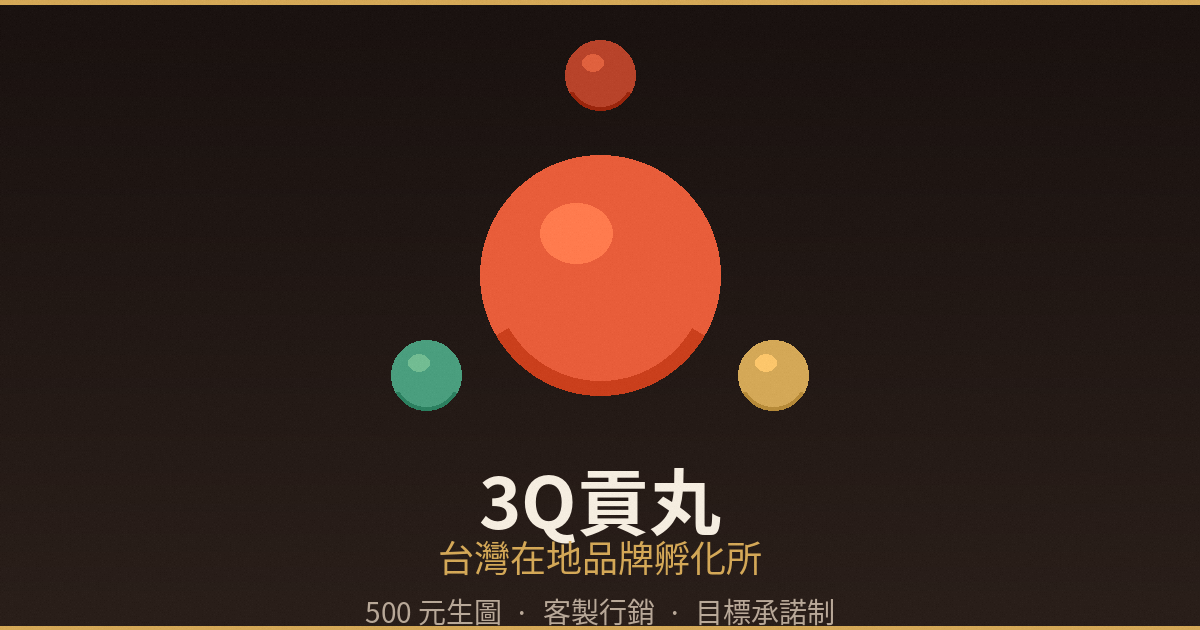
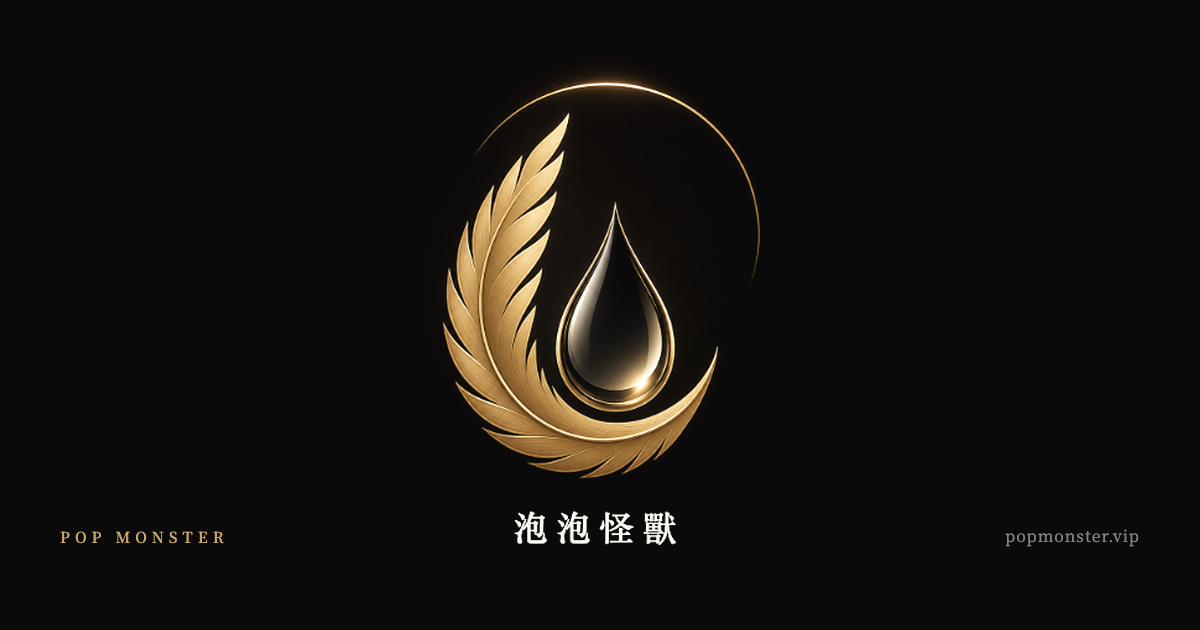
首頁分享預覽圖換成泡泡怪獸商標（原本是 3Q貢丸 的圖）
- 新圖 img/og/og-logo-1200x630.jpg：金羽毛水滴商標置中，底色 #0a0a0a
- 首頁、404、隱私、條款、AI 百科、錯誤回報、免費指南 7 頁的 og:image 指到新圖（首頁的 twitter:image
  先留舊網址，避開跟 #77 的相鄰改動衝突；舊網址的內容已經是同一張商標圖）
- 舊網址 og-image-1200x630.png 也換成同一張，外部快取和首頁結構化資料的 logo 不會再抓到 3Q貢丸
- 渲染正本與規格在 assets/og-logo/（PROMPT.md、src/render.py）

diff --git a/assets/og-logo/src/render.html b/assets/og-logo/src/render.html
@@ -1,0 +1,58 @@
+<!DOCTYPE html>
+<html lang="zh-Hant-TW">
+<head>
+<meta charset="utf-8">
+<title>渲染正本：首頁分享預覽圖（商標版）1200×630</title>
+<link rel="preconnect" href="https://fonts.googleapis.com">
+<link href="https://fonts.googleapis.com/css2?family=Noto+Serif+TC:wght@400;600&display=block" rel="stylesheet">
+<style>
+  /* 渲染專用：固定像素、零動畫。規格見 ../PROMPT.md */
+  * { margin: 0; padding: 0; box-sizing: border-box; }
+  body { background: #0a0a0a; }
+  #capture {
+    position: relative;
+    width: 1200px;
+    height: 630px;
+    overflow: hidden;
+    background: #0a0a0a;               /* 品牌手冊 PURE BLACK */
+    isolation: isolate;
+  }
+  /* 商標原圖是純黑底：screen 疊上去，黑色直接變成底色，四周不會有方框 */
+  .mark {
+    position: absolute;
+    left: 291px;                        /* 本體中心 x=309 → 畫面中心 600 */
+    top: -29px;                         /* 本體中心 y=338 → 309（中心往上 6px，光學置中） */
+    width: 616px;
+    height: 616px;
+    mix-blend-mode: screen;
+  }
+  .sig {
+    position: absolute;
+    bottom: 86px;                       /* 字底對齊「泡泡怪獸」四字底線（y=544） */
+    font-family: "Noto Serif TC", "Songti TC", serif;
+    line-height: 1;
+  }
+  .sig-brand {
+    left: 60px;
+    font-size: 15px;
+    font-weight: 600;
+    letter-spacing: .34em;
+    color: #c8a96b;                     /* CHAMPAGNE 核心識別金 */
+  }
+  .sig-url {
+    right: 60px;
+    font-size: 16px;
+    font-weight: 400;
+    letter-spacing: .06em;
+    color: rgba(232, 226, 214, .56);    /* IVORY WHITE 降一階 */
+  }
+</style>
+</head>
+<body>
+<div id="capture">
+  <img class="mark" src="logo-mark-616.png" alt="">
+  <div class="sig sig-brand">POP MONSTER</div>
+  <div class="sig sig-url">popmonster.vip</div>
+</div>
+</body>
+</html>

diff --git a/index.html b/index.html
@@ -12,9 +12,9 @@
 <meta property="og:title" content="泡泡怪獸 POP MONSTER｜先選施工任務，再選產品">
 <meta property="og:description" content="用清潔、研磨、鍍膜、耗材與養護五條路徑，快速找到適合的汽美產品。">
 <meta property="og:url" content="https://popmonster.vip/">
-<meta property="og:image" content="https://popmonster.vip/og-image-1200x630.png">
-<meta property="og:image:type" content="image/png">
-<meta property="og:image:alt" content="泡泡怪獸 POP MONSTER 汽車美容選品">
+<meta property="og:image" content="https://popmonster.vip/img/og/og-logo-1200x630.jpg">
+<meta property="og:image:type" content="image/jpeg">
+<meta property="og:image:alt" content="泡泡怪獸 POP MONSTER 商標">
 <meta property="og:image:width" content="1200">
 <meta property="og:image:height" content="630">
 <meta name="twitter:card" content="summary_large_image">

diff --git a/error-report.html b/error-report.html
@@ -14,10 +14,10 @@
 <meta property="og:title" content="錯誤回報｜泡泡怪獸 POP MONSTER">
 <meta property="og:description" content="如果您發現網站內容、產品資訊、施工教學有任何錯誤或可改進之處，歡迎透過 LINE 與我們聯絡。">
 <meta property="og:url" content="https://popmonster.vip/error-report.html">
-<meta property="og:image" content="https://popmonster.vip/og-image-1200x630.png">
+<meta property="og:image" content="https://popmonster.vip/img/og/og-logo-1200x630.jpg">
 <meta property="og:image:width" content="1200">
 <meta property="og:image:height" content="630">
-<meta property="og:image:type" content="image/png">
+<meta property="og:image:type" content="image/jpeg">
 <!-- GA4 -->
 <script async src="https://www.googletagmanager.com/gtag/js?id=G-WTKLHW33D7"></script>
 <script>

diff --git a/free-guide.html b/free-guide.html
@@ -13,10 +13,10 @@
 <meta property="og:title" content="免費攻略｜泡泡怪獸 POP MONSTER">
 <meta property="og:description" content="五篇已經寫好、可以直接看的汽美攻略：千倍稀釋、洗車八步、番數對照、RO 入門、拋光盤選擇。">
 <meta property="og:url" content="https://popmonster.vip/free-guide.html">
-<meta property="og:image" content="https://popmonster.vip/og-image-1200x630.png">
+<meta property="og:image" content="https://popmonster.vip/img/og/og-logo-1200x630.jpg">
 <meta property="og:image:width" content="1200">
 <meta property="og:image:height" content="630">
-<meta property="og:image:type" content="image/png">
+<meta property="og:image:type" content="image/jpeg">
 <!-- GA4 -->
 <script async src="https://www.googletagmanager.com/gtag/js?id=G-WTKLHW33D7"></script>
 <script>

diff --git a/ai-encyclopedia.html b/ai-encyclopedia.html
@@ -13,10 +13,10 @@
 <meta property="og:title" content="AI 汽美百科｜泡泡怪獸 POP MONSTER">
 <meta property="og:description" content="結合 Gemini AI 的汽美知識問答系統，可上傳車漆照片做 AI 評估，或直接詢問產品搭配建議。">
 <meta property="og:url" content="https://popmonster.vip/ai-encyclopedia.html">
-<meta property="og:image" content="https://popmonster.vip/og-image-1200x630.png">
+<meta property="og:image" content="https://popmonster.vip/img/og/og-logo-1200x630.jpg">
 <meta property="og:image:width" content="1200">
 <meta property="og:image:height" content="630">
-<meta property="og:image:type" content="image/png">
+<meta property="og:image:type" content="image/jpeg">
 <!-- GA4 -->
 <script async src="https://www.googletagmanager.com/gtag/js?id=G-WTKLHW33D7"></script>
 <script>

diff --git a/404.html b/404.html
@@ -21,10 +21,10 @@
 <link rel="icon" type="image/svg+xml" href="/favicon.svg">
 <link rel="apple-touch-icon" href="/favicon.svg">
 <link rel="manifest" href="/manifest.json">
-<meta property="og:image" content="https://popmonster.vip/og-image-1200x630.png">
+<meta property="og:image" content="https://popmonster.vip/img/og/og-logo-1200x630.jpg">
 <meta property="og:image:width" content="1200">
 <meta property="og:image:height" content="630">
-<meta name="twitter:image" content="https://popmonster.vip/og-image-1200x630.png">
+<meta name="twitter:image" content="https://popmonster.vip/img/og/og-logo-1200x630.jpg">
 <!-- Google tag (gtag.js) - GA4 with Consent Mode v2 -->
 <script async src="https://www.googletagmanager.com/gtag/js?id=G-WTKLHW33D7"></script>
 <script>

diff --git a/privacy.html b/privacy.html
@@ -11,10 +11,10 @@
 <link rel="icon" type="image/svg+xml" href="/favicon.svg">
 <link rel="apple-touch-icon" href="/favicon.svg">
 <link rel="manifest" href="/manifest.json">
-<meta property="og:image" content="https://popmonster.vip/og-image-1200x630.png">
+<meta property="og:image" content="https://popmonster.vip/img/og/og-logo-1200x630.jpg">
 <meta property="og:image:width" content="1200">
 <meta property="og:image:height" content="630">
-<meta name="twitter:image" content="https://popmonster.vip/og-image-1200x630.png">
+<meta name="twitter:image" content="https://popmonster.vip/img/og/og-logo-1200x630.jpg">
 <!-- Google tag (gtag.js) - GA4 with Consent Mode v2 -->
 <script async src="https://www.googletagmanager.com/gtag/js?id=G-WTKLHW33D7"></script>
 <script>

diff --git a/terms.html b/terms.html
@@ -11,10 +11,10 @@
 <link rel="icon" type="image/svg+xml" href="/favicon.svg">
 <link rel="apple-touch-icon" href="/favicon.svg">
 <link rel="manifest" href="/manifest.json">
-<meta property="og:image" content="https://popmonster.vip/og-image-1200x630.png">
+<meta property="og:image" content="https://popmonster.vip/img/og/og-logo-1200x630.jpg">
 <meta property="og:image:width" content="1200">
 <meta property="og:image:height" content="630">
-<meta name="twitter:image" content="https://popmonster.vip/og-image-1200x630.png">
+<meta name="twitter:image" content="https://popmonster.vip/img/og/og-logo-1200x630.jpg">
 <!-- Google tag (gtag.js) - GA4 with Consent Mode v2 -->
 <script async src="https://www.googletagmanager.com/gtag/js?id=G-WTKLHW33D7"></script>
 <script>

diff --git a/assets/og-logo/src/render.py b/assets/og-logo/src/render.py
@@ -1,0 +1,41 @@
+#!/usr/bin/env python3
+"""首頁分享預覽圖（商標版）渲染。
+用法：python3 render.py（在本目錄執行）
+輸出：img/og/og-logo-1200x630.jpg（正本）＋ 根目錄 og-image-1200x630.png（舊網址改放同一張）"""
+import io
+import pathlib
+from PIL import Image, ImageFilter
+from playwright.sync_api import sync_playwright
+
+SRC = pathlib.Path(__file__).resolve().parent
+ROOT = SRC.parents[2]
+
+# 1) 商標底圖：500px 原檔去掉 1px 金褐邊框 → 放大到本體約 470px 高（1.237 倍）→ 輕微銳化補回放大的軟
+src = Image.open(SRC / "logo-avatar-500-source.png").convert("RGB")
+size = round(498 * 470 / 380)
+mark = src.crop((1, 1, 499, 499)).resize((size, size), Image.LANCZOS)
+mark = mark.filter(ImageFilter.UnsharpMask(radius=1.2, percent=35, threshold=2))
+mark.save(SRC / f"logo-mark-{size}.png")
+
+# 2) 排版：render.html（商標 screen 疊在 #0a0a0a 上＋左右下角小字）
+
+with sync_playwright() as p:
+    browser = p.chromium.launch()
+    ctx = browser.new_context(viewport={"width": 1200, "height": 630}, device_scale_factor=1)
+    page = ctx.new_page()
+    page.goto((SRC / "render.html").as_uri())
+    page.evaluate("document.fonts.ready.then(() => {})")
+    page.wait_for_function("document.fonts.status === 'loaded'", timeout=30000)
+    page.wait_for_timeout(800)
+    png = page.locator("#capture").screenshot()
+    browser.close()
+
+im = Image.open(io.BytesIO(png)).convert("RGB")
+assert im.size == (1200, 630), im.size
+jpg = ROOT / "img" / "og" / "og-logo-1200x630.jpg"
+jpg.parent.mkdir(parents=True, exist_ok=True)
+im.save(jpg, "JPEG", quality=92, optimize=True, progressive=True, subsampling=0)
+legacy = ROOT / "og-image-1200x630.png"
+im.save(legacy, "PNG", optimize=True)
+for f in (jpg, legacy):
+    print(f"{f.relative_to(ROOT)}  {f.stat().st_size / 1024:.0f} KB")

diff --git a/tests/test_home_extreme.py b/tests/test_home_extreme.py
@@ -24,7 +24,9 @@ class HomepageExtremeContract(unittest.TestCase):
 
     def test_semantic_entry_and_social_metadata(self):
         self.assertIn('<link rel="canonical" href="https://popmonster.vip/">', self.html)
-        self.assertIn('og-image-1200x630.png', self.html)
+        # 舊的 og-image-1200x630.png 是別的品牌（3Q貢丸）的圖；首頁預覽改用泡泡怪獸商標
+        self.assertIn('property="og:image" content="https://popmonster.vip/img/og/og-logo-1200x630.jpg"', self.html)
+        self.assertTrue((ROOT / 'img' / 'og' / 'og-logo-1200x630.jpg').is_file())
         self.assertRegex(self.html, r'<a[^>]+class="skip-link"[^>]+href="#main-content"')
         self.assertRegex(self.html, r'<main[^>]+id="main-content"')
         self.assertIn('aria-current="page"', self.html)

diff --git a/assets/og-logo/PROMPT.md b/assets/og-logo/PROMPT.md
@@ -1,0 +1,46 @@
+# 首頁分享預覽圖：泡泡怪獸商標版（2026-09-28）
+
+## 用途
+popmonster.vip 首頁（以及 404、隱私、條款、AI 百科、錯誤回報、免費指南六頁）的
+`og:image`／`twitter:image`。在 FB、LINE、Threads、iMessage 貼網址時跳出來的那張圖。
+
+換掉的是 `og-image-1200x630.png`：那張是別的品牌「3Q貢丸」的圖，不是泡泡怪獸。
+
+## 用哪一版商標
+金羽毛＋水滴＋金環＋「泡泡怪獸」四字那版（蝦皮天使塗層 Guard 賣場頭貼、38 個 FB 粉專頭貼同一張）。
+來源：Drive `02-泡泡怪獸與POP/天使塗層 Guard｜蝦皮賣場素材｜2026-07-18/01-avatar-500x500.png`，
+留底在 `src/logo-avatar-500-source.png`。
+
+不用彩色圓形「POP MONSTER 泡泡怪兽 From China」那版：2026-08-12 已經把 FB 粉專上的那版全部換掉，
+理由是台灣車主看到 From China 會直接跳走。
+
+## 觀看尺寸
+- 100%：1200×630
+- FB 手機動態：約 500px 寬
+- LINE 聊天泡泡：約 240px 寬（商標要一眼認得出來，四個字看不清可以接受，標題文字會另外顯示在圖下）
+
+## 構圖
+- 底色 `#0a0a0a`（品牌手冊 PURE BLACK，不是 `#000`）
+- 商標整顆置中，本體（羽毛＋水滴＋金環＋四字）約 470px 高；以本體中心對齊畫面中心，往上偏 6px 做光學置中
+- 商標原圖是純黑底＋1px 金褐邊框：裁掉邊框，用 `screen` 疊上底色，四周不可看到方形邊界
+- 左下角「POP MONSTER」香檳金 `#c8a96b`、大字距；右下角「popmonster.vip」象牙白 `#e8e2d6` 半透明。兩者距邊 ≥ 56px
+- 其他一律不放
+
+## 禁區
+- 不放 From China 版商標、不重描、不改色、不給商標加光暈或描邊
+- 商標只做兩件事：放大 1.237 倍（500px 是手上最大的原檔）＋輕微銳化（UnsharpMask 1.2／35%／2），都寫在 `src/render.py`
+- 不放標語、數字、emoji、QR（這張圖本身就是連回官網的預覽，出口是網址本身）
+- 不放任何 3Q貢丸 的東西
+
+## 驗收
+1. 1200×630，JPEG ＜ 200 KB（沿用 `tests/test_go_v4.py` 對分享卡的上限）；舊網址 `og-image-1200x630.png` 也換成同一張（PNG）
+2. 商標四周沒有方框、沒有色階斷層；100% 放大看羽毛紋理、水滴高光、四個字邊緣乾淨，沒有壓縮方塊
+3. 縮到 500px 與 240px 寬，商標一眼可認
+4. 商標上下留白差 ≤ 16px（光學置中）；角落小字不碰邊
+5. 合併上線後：`curl` 首頁拿到的 `og:image` 指向新圖，新圖回 200
+
+## 為什麼 main 上首頁的 twitter:image 先不改
+PR #77 改了首頁 `twitter:title`／`twitter:description`，就在 `twitter:image` 正上方。
+main 這邊如果也改 `twitter:image`，兩邊變成相鄰改動，合併會衝突。
+所以 main 只改 `og:image`（FB、LINE、Threads 看這個），`twitter:image` 留舊網址——
+舊網址的檔案內容已經換成同一張商標圖。#77 合併時會一起把它改成新網址。
